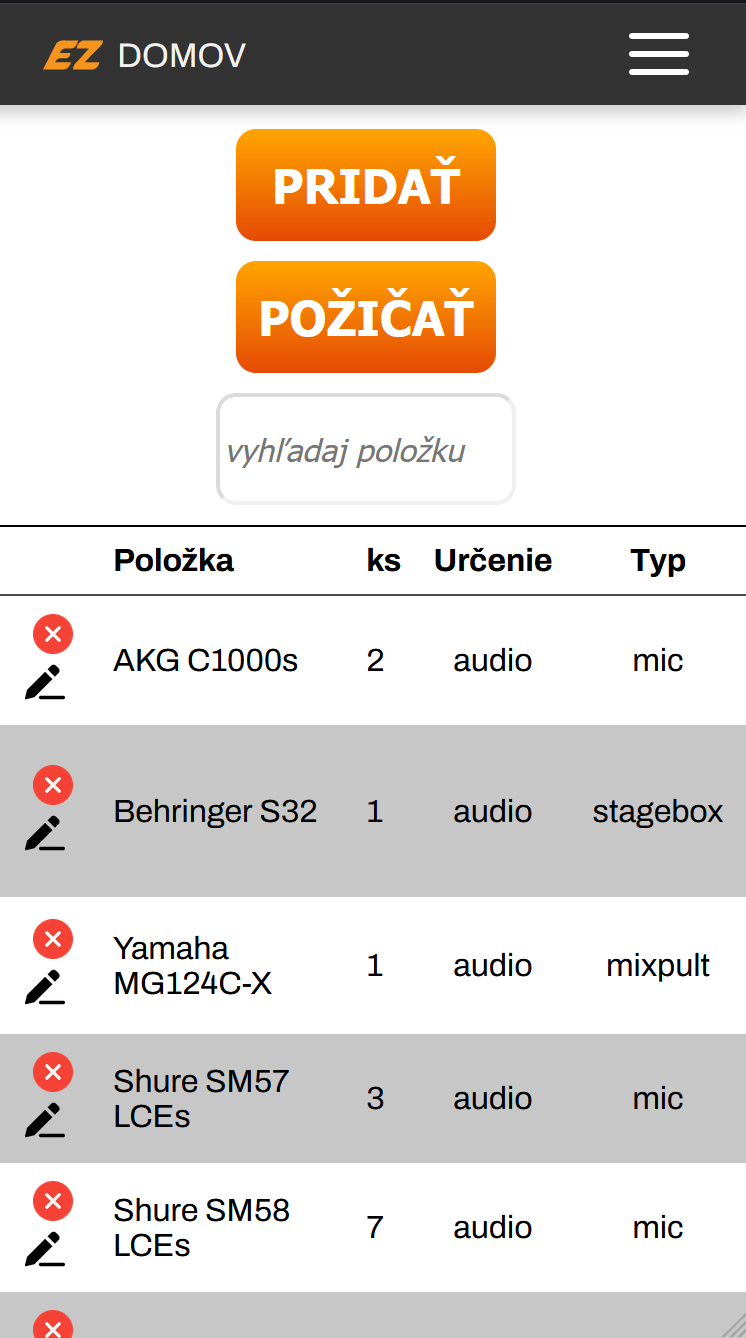
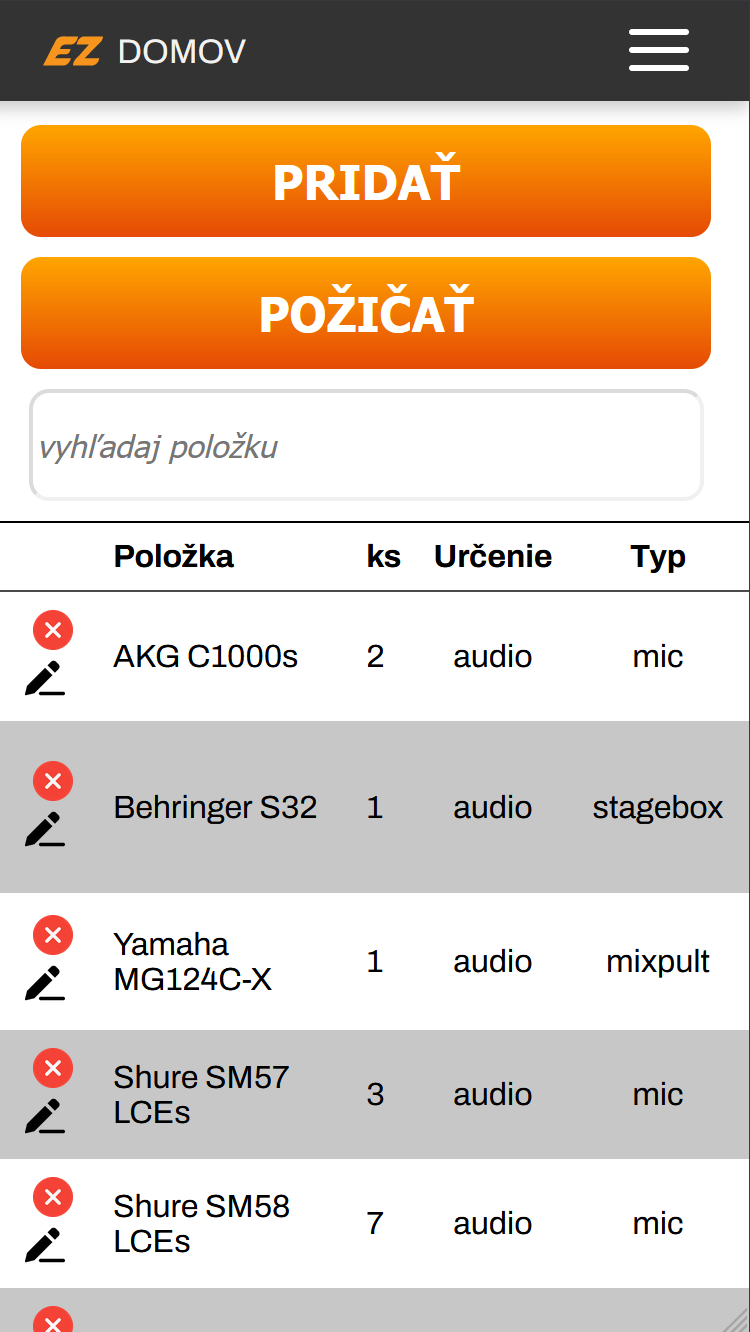
inventory mobile version

diff --git a/public/css/app.css b/public/css/app.css
@@ -301,6 +301,18 @@ td:nth-child(1) {
     .search-bar {
         flex-direction: column;
     }
+    .search-bar.inv button {
+        width: 95%;
+    }
+    .search-bar.inv input {
+        width: 90vw;
+    }
+    .search-bar.inv button:hover {
+        width: 95%;
+    }
+    .search-bar.inv input:hover {
+        width: 90vw;
+    }
 }
 .rent-card {
     box-shadow: 0 4px 8px 0 rgba(0, 0, 0, 0.2);

diff --git a/resources/css/items.css b/resources/css/items.css
@@ -141,4 +141,16 @@ td:nth-child(1) {
     .search-bar {
         flex-direction: column;
     }
+    .search-bar.inv button {
+        width: 95%;
+    }
+    .search-bar.inv input {
+        width: 90vw;
+    }
+    .search-bar.inv button:hover {
+        width: 95%;
+    }
+    .search-bar.inv input:hover {
+        width: 90vw;
+    }
 }

diff --git a/resources/views/items.blade.php b/resources/views/items.blade.php
@@ -1,7 +1,7 @@
 @extends("layouts.master")
 @section('obsah')
     @auth
-        <div class="search-bar">
+        <div class="search-bar inv">
             @if ($userInfo != null && $userInfo[0]->admin == 'Y')
                 <button type="button" class="btn-items" onclick="return location.href = 'item-new';">PRIDAŤ</button>
             @endif
